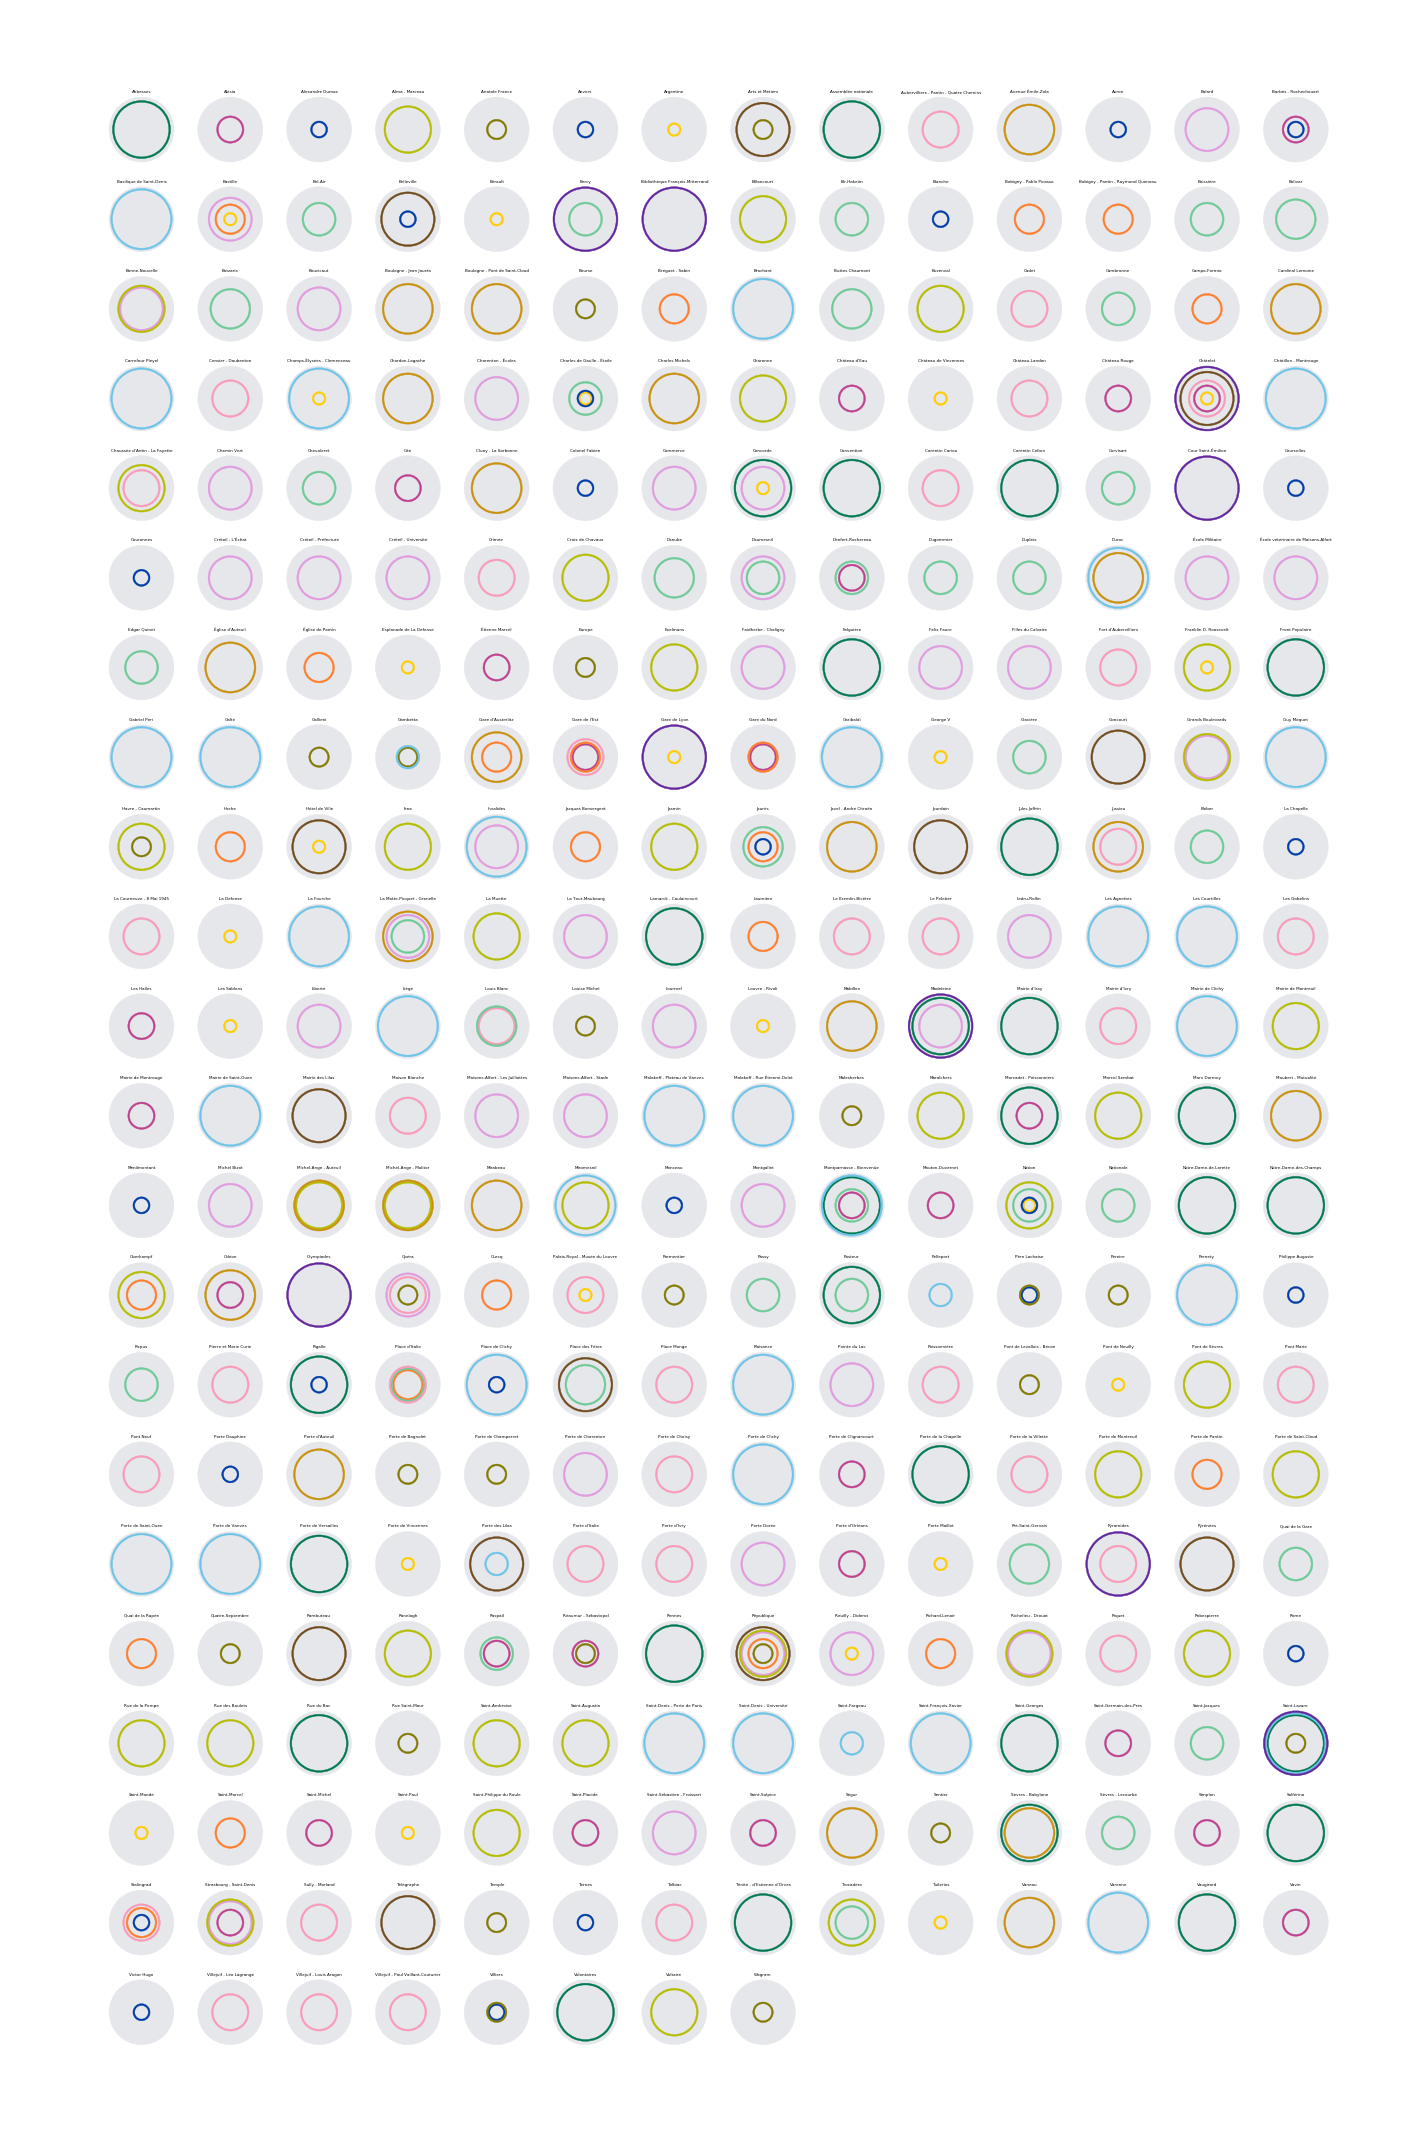
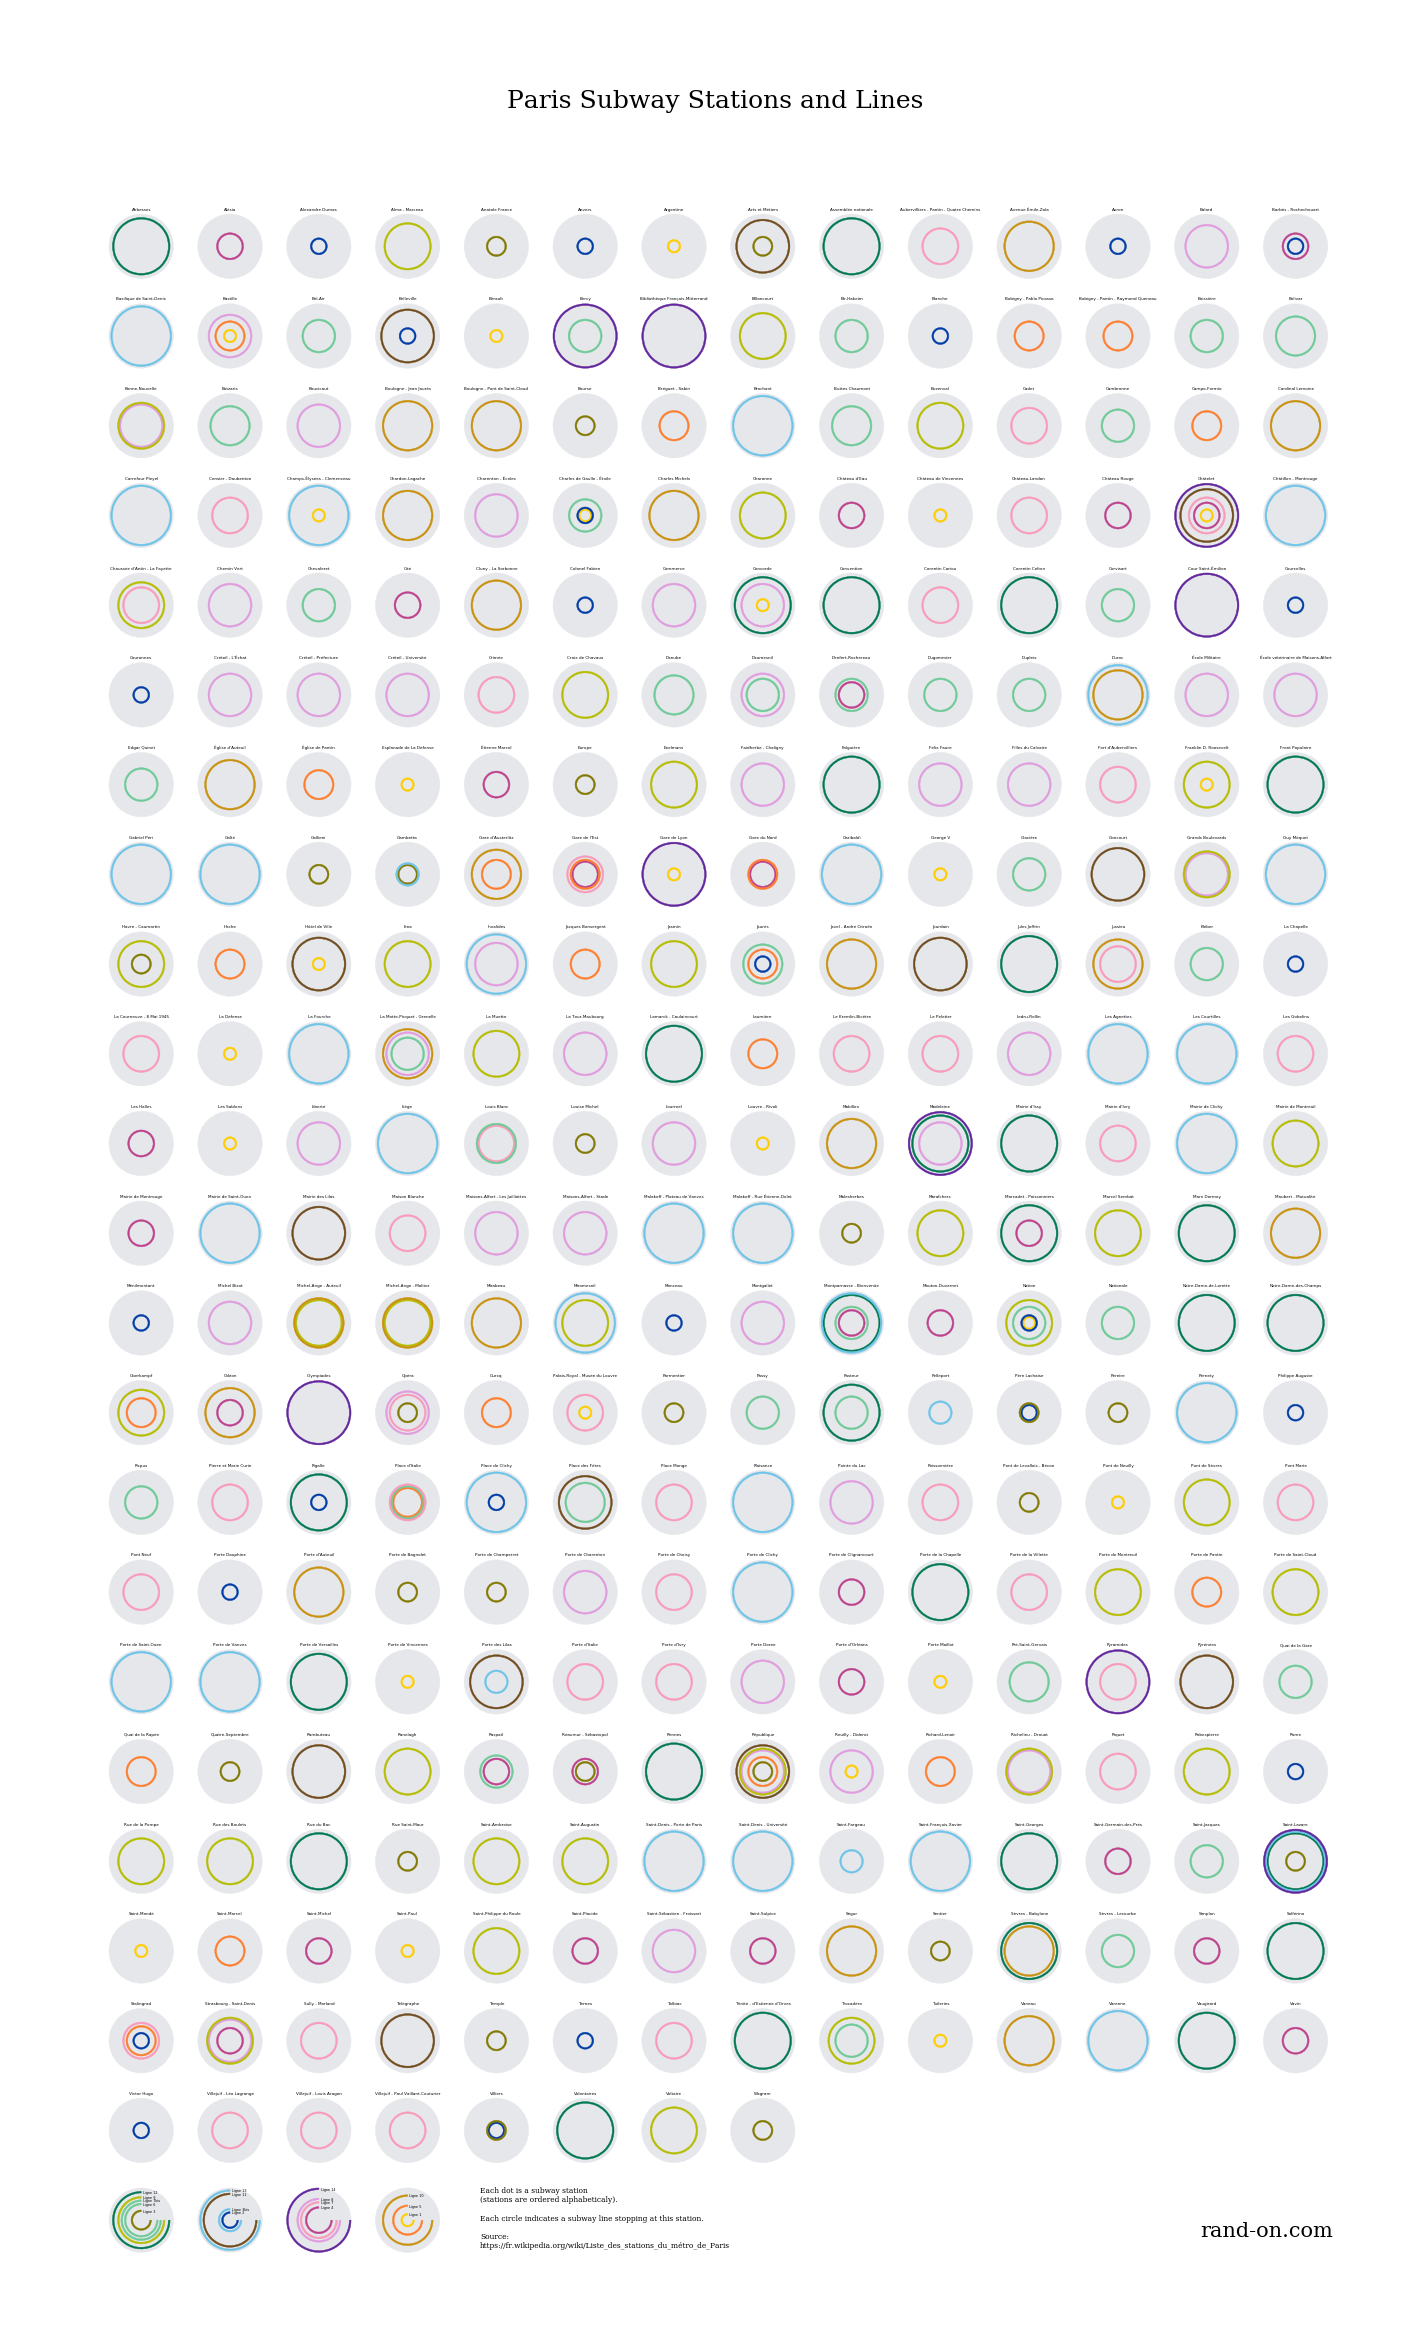
add legend and text to plot

Changed region(s): [[0.0619, 0.0312, 0.9592, 0.9665]]

diff --git a/smallstations/pipeline/step_30_make_plot.py b/smallstations/pipeline/step_30_make_plot.py
@@ -4,17 +4,21 @@ import matplotlib
 matplotlib.use('Agg')  # still annoying that I have to do this.
 
 from matplotlib.patches import Circle, Wedge
+from matplotlib.font_manager import FontProperties
 from matplotlib import pyplot as plt
 import seaborn as sns
 
 from smallstations import io
 
 
+N_COLS = 14
+
 def run():
     logging.info("Creating plot...")
 
     stations = io.load_dataframe('stations_and_lines_with_color.csv')
     fig = create_figure(stations)
+    fig = add_infos(fig, stations)
     save_figure(fig)
 
     logging.info("Creating plot: completed")
@@ -22,19 +26,28 @@ def run():
 
 def create_figure(stations):
     max_index = stations['line_index'].max()
-    lims = [-max_index - 1, max_index + 1]
 
     grid = (
         sns.FacetGrid(
-            stations, size=3, xlim=lims, ylim=lims,
-            col='station', col_wrap=14
+            stations, size=3,
+            col='station', col_wrap=N_COLS
         )
         .map(_plot_background, radius=max_index)
         .map(_plot_lines, 'line_index', 'line_color')
         .set_titles("{col_name}")
     )
 
-    return grid
+    return grid.fig
+
+
+def add_infos(fig, stations):
+
+    x_left, y_bottom, delta_x, delta_y, w, h = _compute_positions(fig)
+    _add_legend_data(fig, stations, x_left, y_bottom, delta_x, delta_y, w, h)
+    _add_legend_text(fig, x_left, y_bottom, delta_x, delta_y)
+    _add_title_and_signature(fig, x_left, y_bottom, delta_x, delta_y)
+
+    return fig
 
 
 def save_figure(fig):
@@ -52,18 +65,130 @@ def _save_helper(fig, filename, **kwargs):
 
 def _plot_background(radius, **kwargs):
     ax = plt.gca()
+    lims = [-radius - 1, radius + 1]
+    ax.set_xlim(lims)
+    ax.set_ylim(lims)
     ax.add_patch(Circle((0, 0), radius=radius, color='#e5e7ea'))
     ax.set_aspect(1)
     ax.axis('off')
 
 
-def _plot_lines(line_index, line_color, **kwargs):
+def _plot_lines(line_index, line_color, line_names=None, **kwargs):
     ax = plt.gca()
-    for i, c in zip(line_index, line_color):
+    if line_names is None:
+        line_names = [None] * len(line_index)
+    for radius, color, name in zip(line_index, line_color, line_names):
         ax.add_patch(Wedge(
             (0, 0),
-            i,
-            0, 360,
+            radius,
+            0 if name is None else 90, 360,
             width=1,
-            color=c
+            color=color
         ))
+        if name is not None:
+            ax.text(1, radius - 0.5, name,
+                    fontsize=8,
+                    verticalalignment='center', horizontalalignment='left')
+
+
+###############################################################################
+# Extra infos
+
+
+def _compute_positions(fig):
+    top_left = fig.axes[0]
+    diagonal = fig.axes[N_COLS + 1]
+    bottom = fig.axes[-1]
+
+    x0, y0, w, h = top_left.get_position().bounds
+    x1, y1, _, _ = diagonal.get_position().bounds
+    _, y_bottom, _, _ = bottom.get_position().bounds
+
+    x_left = x0
+    delta_y = y1 - y0
+    delta_x = x1 - x0
+
+    return x_left, y_bottom, delta_x, delta_y, w, h
+
+
+def _add_legend_data(fig, stations, x_left, y_bottom, delta_x, delta_y, w, h):
+    legend_groups = [
+        [   # greens
+            'Ligne 3',
+            'Ligne 6',
+            'Ligne 7bis',
+            'Ligne 9',
+            'Ligne 12'
+        ],
+        [   # blues
+            'Ligne 2',
+            'Ligne 3bis',
+            'Ligne 11',
+            'Ligne 13',
+        ],
+        [   # pinks
+            'Ligne 4',
+            'Ligne 7',
+            'Ligne 8',
+            'Ligne 14',
+        ],
+        [   # reds
+            'Ligne 1',
+            'Ligne 5',
+            'Ligne 10'
+        ]
+    ]
+    ax_positions = [
+        (x_left + i * delta_x, y_bottom + delta_y, w, h)
+        for i in range(len(legend_groups))
+    ]
+
+
+    lines = stations.drop_duplicates(subset='line').sort_values(by='line_index')
+    max_index = stations['line_index'].max()
+    # slims = [-max_index - 1, max_index + 1]
+
+    for position, line_sample in zip(ax_positions, legend_groups):
+        ax = fig.add_axes(position)
+        _plot_background(max_index)
+
+        sample = lines.loc[lines['line'].isin(line_sample)]
+        _plot_lines(sample['line_index'], sample['line_color'],
+                    line_names=sample['line'])
+
+
+def _add_legend_text(fig, x_left, y_bottom, delta_x, delta_y):
+    infos = '\n'.join([
+        '',
+        'Each dot is a subway station',
+        '(stations are ordered alphabeticaly).',
+        '',
+        'Each circle indicates a subway line stopping at this station.',
+        '',
+        'Source:',
+        'https://fr.wikipedia.org/wiki/Liste_des_stations_du_métro_de_Paris'
+    ])
+    fig.text(x_left + 4.2 * delta_x, y_bottom + 0.5 * delta_y, infos,
+             fontproperties=FontProperties(family='serif', size=18),
+             horizontalalignment='left', verticalalignment='center')
+
+
+def _add_title_and_signature(fig, x_left, y_bottom, delta_x, delta_y):
+    # title
+    fig.suptitle('Paris Subway Stations and Lines', y=1 - delta_y,
+                     fontproperties=FontProperties(family='serif', size=60),
+                     horizontalalignment='center', verticalalignment='bottom')
+
+    # signature
+    font = FontProperties(family='serif', size=50)
+    fig.text(x_left + (N_COLS - 0.2) * delta_x, y_bottom + 0.8 * delta_y, "rand-on.com",
+                 fontproperties=FontProperties(family='serif', size=50),
+                 horizontalalignment='right', verticalalignment='bottom')
+
+
+if __name__ == '__main__':
+    logging.basicConfig(
+        format='[%(asctime)s][%(levelname)s][%(module)s] %(message)s',
+        datefmt='%m/%d/%Y %I:%M:%S',
+        level=logging.DEBUG)
+    run()
